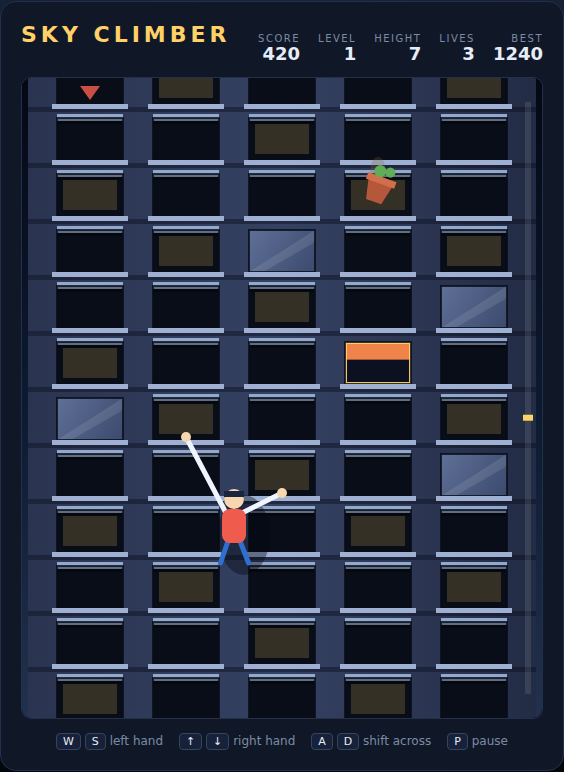
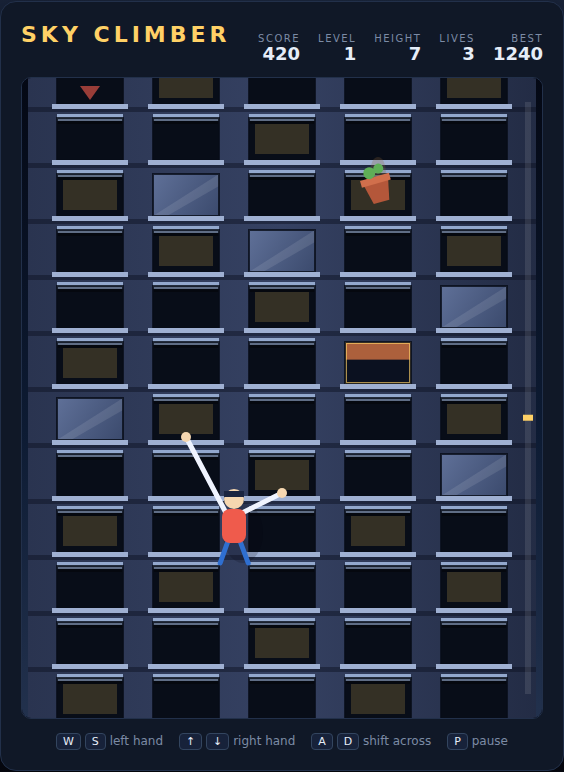
Tune Sky Climber difficulty and polish its presentation
Simulated a dozen seeded games with a scripted bot that climbs and sidesteps
falling pots: with the original numbers it never got past row 14 of 21. Shorter
buildings (16 rows, +3 per level), a more open wall, slower and rarer pots
capped at three in flight, faster hand repeats and a 1.5 s grace period after
each (re)start bring that to clearing the first building about half the time.

Presentation: hands now grip the window sills, per-cell lit rooms break up the
facade, window cycles start at random phases so the wall no longer opens and
shuts in one wave, and a knocked-off climber lands on the pavement instead of
falling off the bottom of the screen. DESIGN.md updated to the tuned numbers
and the README status set to Complete.

Claude-Session: https://claude.ai/code/session_012qCxPG1hzX1vaoJjniz1gU

diff --git a/SkyClimber/game.js b/SkyClimber/game.js
@@ -126,9 +126,11 @@ function buildWindows() {
                 // The street ledge is always available, so a slip is never fatal.
                 col.push({ state: 'open', timer: Infinity });
             } else if (rand() < 0.85) {
-                col.push({ state: 'open', timer: randRange(OPEN_MIN, OPEN_MAX) * cycleScale() });
+                // Start each window at a random point in its cycle, so the wall
+                // does not open and shut in one synchronised wave.
+                col.push({ state: 'open', timer: randRange(0.5, OPEN_MAX) * cycleScale() });
             } else {
-                col.push({ state: 'closed', timer: randRange(SHUT_MIN, SHUT_MAX) * cycleScale() });
+                col.push({ state: 'closed', timer: randRange(0.3, SHUT_MAX) * cycleScale() });
             }
         }
         windows.push(col);
@@ -729,7 +731,13 @@ function drawPots() {
 
 function drawClimber() {
     if (!climber) return;
-    const drop = state === 'falling' ? fallOffset : 0;
+    // While falling, the climber drops no further than the pavement, so the
+    // tumble stays on screen instead of vanishing past the bottom edge.
+    let drop = 0;
+    if (state === 'falling') {
+        const base = Math.max(rowHandY(climber.dispLeftRow), rowHandY(climber.dispRightRow));
+        drop = Math.min(fallOffset, Math.max(0, worldToScreenY(0) - 34 - base));
+    }
     const lx = colCenterX(climber.dispLeftCol);
     const rx = colCenterX(climber.dispRightCol);
     const ly = rowHandY(climber.dispLeftRow) + drop;

diff --git a/SkyClimber/DESIGN.md b/SkyClimber/DESIGN.md
@@ -29,7 +29,7 @@ taller one.
 | `COLS` | 5 | window columns |
 | `COL_W` | 96 px | column width |
 | `ROW_H` | 56 px | row height |
-| `ROWS_BASE` / `ROWS_STEP` | 22 / 4 | building height at level 1, and per level |
+| `ROWS_BASE` / `ROWS_STEP` | 16 / 3 | building height at level 1, and per level |
 | `CANVAS_W` × `CANVAS_H` | 520 × 640 | canvas size |
 
 Row 0 is the street-level ledge and its windows are **always open**, so the
@@ -41,24 +41,30 @@ Every window above row 0 runs its own cycle, driven by a seeded PRNG so a run is
 reproducible:
 
 ```
-open (4–9 s) → closing (0.8 s warning flash) → closed (2–5 s) → open → …
+open (4–9 s) → closing (0.8 s warning flash) → closed (1.5–3.5 s) → open → …
 ```
 
-Timings shorten as the level rises. A hand may only be *moved onto* an `open`
-window. A window that is `closing` still holds — the flashing frame is your
-warning to move. When it reaches `closed` with a hand on it, the grip breaks and
-the climber **slips**: both hands slide down to the nearest row below where both
-of the climber's columns are open. Because row 0 is always open, a slip can
-never be fatal — it only costs height.
+Timings shorten as the level rises (×0.88 per level), and each window starts at
+a random point in its cycle so the wall does not open and shut in one wave —
+roughly 60–80% of it is open at any moment.
+
+A hand may only be *moved onto* an `open` window. A window that is `closing`
+still holds — the flashing frame is your warning to move. When it reaches
+`closed` with a hand on it, the grip breaks and the climber **slips**: both hands
+slide down to the nearest row below where both of the climber's columns are open.
+Because row 0 is always open, a slip can never be fatal — it only costs height.
 
 ### Flower pots
 
-Pots are dropped from above at a rate and speed that scale with the level. A pot
-falls down a single column. If it reaches the climber's body while it is in
-either of the climber's two columns, it knocks you off the wall: the state
-becomes `falling`, the climber drops to the street, and a life is spent. With
-lives left you restart at the bottom of the *same* building with your score
-intact; otherwise the game is over.
+Pots are dropped from above at a rate and speed that scale with the level: one
+every ~3 s falling at 180 px/s on the first building, tightening from there, with
+at most three in flight so the lanes never all fill at once. A pot falls down a
+single column, and for the first 1.5 s of a climb none of them can touch you.
+
+A pot that reaches the climber's body while it is in either of the climber's two
+columns knocks them off the wall: the state becomes `falling`, the climber drops
+to the street, and a life is spent. With lives left you restart at the bottom of
+the *same* building with your score intact; otherwise the game is over.
 
 ### Scoring
 
@@ -67,9 +73,10 @@ intact; otherwise the game is over.
 | Each new highest row reached | 10 |
 | Reaching the roof | 500 × level |
 
-Height points are paid only for rows above your best so far in the run, so
-sliding down and re-climbing the same stretch earns nothing. The best score is
-kept in `localStorage` under `skyclimber.best`.
+Height points are paid only for rows above your best so far *on the current
+building*, so sliding down and re-climbing the same stretch earns nothing; a new
+building starts the height marker again. The best score is kept in
+`localStorage` under `skyclimber.best`.
 
 ### Level progression
 
@@ -89,8 +96,9 @@ bottom of the new building.
 | `Enter` | start / restart |
 | `P` | pause / resume |
 
-Holding a hand key repeats the move every 0.2 s, so you can climb by holding
-alternately rather than tapping.
+Holding a hand key repeats the move every 0.15 s. Holding both hand keys climbs
+at full speed — the one-row rule between the hands paces the alternation for you,
+so the skill lies in reading the wall and dodging, not in drumming the keys.
 
 ## Code layout
 
@@ -111,8 +119,9 @@ plain global the Playwright tests can reach through `page.evaluate`.
 All motion is expressed per second and advanced by `step(dt)`. The animation
 loop only computes `dt` and calls `step`/`draw`, so a test can simulate any
 number of frames deterministically without depending on `requestAnimationFrame`
-wall-clock timing. Tests switch off the random systems with `potsEnabled = false`
-and `windowCycling = false`, and reshape the wall with `openAllWindows()` and
+wall-clock timing. Tests park the loop with `autoStep = false`, switch off the
+random systems with `potsEnabled = false`, `windowCycling = false` and
+`graceTimer = 0`, and reshape the wall with `openAllWindows()` and
 `setWindow(col, row, 'closed')`.
 
 ### State machine
@@ -150,8 +159,14 @@ recorded here.
 5. **Height is measured in rows,** and the HUD shows the body row directly
    rather than converting to metres or floors.
 6. **Score is not reset on a life lost,** and neither is the best-row marker, so
-   re-climbing after a fall pays nothing until you pass your previous best.
-7. **Game-browser count assertion left alone.** `game-browser/e2e/game-browser.spec.ts`
+   re-climbing after a fall pays nothing until you pass your previous best on
+   that building.
+7. **Difficulty was tuned by simulation, not by feel.** A scripted bot that
+   climbs and sidesteps falling pots was run over a dozen seeded games; the
+   building height, pot rate and window odds above are the numbers at which that
+   bot clears the first building about half the time, which leaves headroom for
+   a human who reads the wall better than it does.
+8. **Game-browser count assertion left alone.** `game-browser/e2e/game-browser.spec.ts`
    asserts an exact card count that was already stale before this change (it
    expects 105 for the 108 entries in `games.json`). That suite is not part of
    the root `npm test` run, and correcting an unrelated pre-existing assertion is

diff --git a/README.md b/README.md
@@ -113,7 +113,7 @@ For each new game, put it in a new folder. Each game should have its own README.
 | Marble Spiral | [MarbleSpiral/](MarbleSpiral/) | Complete |
 | Barrel Climb | [BarrelClimb/](BarrelClimb/) | Complete |
 | BurgerTime | [BurgerTime/](BurgerTime/) | Complete |
-| Sky Climber | [SkyClimber/](SkyClimber/) | In Progress |
+| Sky Climber | [SkyClimber/](SkyClimber/) | Complete |
 
 ## Playing
 
